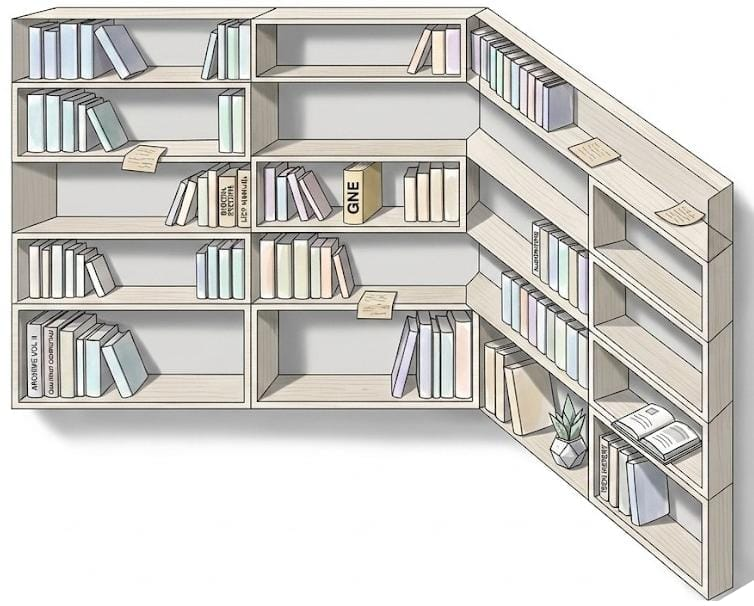
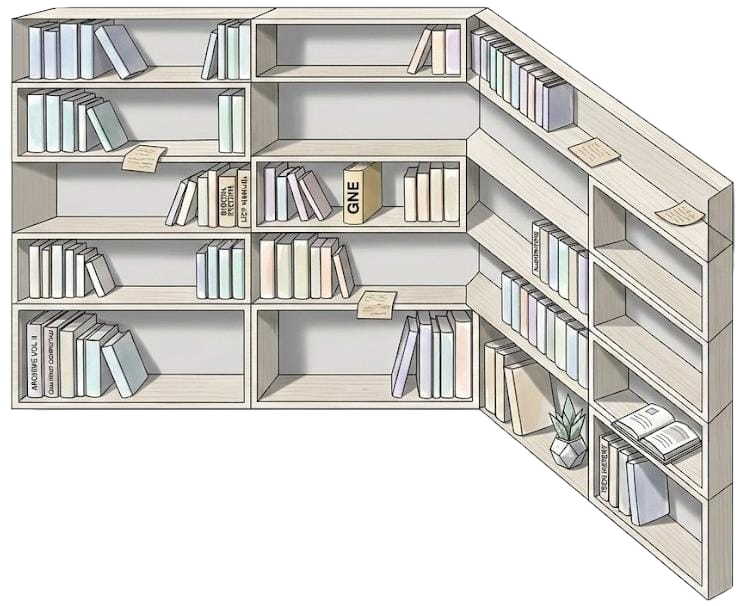
Add realistic hanging bulb animation and improve landing page design

Changed region(s): [[0.0305, 0.6535, 0.7016, 0.7426], [0.9456, 0.297, 1.0, 1.0]]

diff --git a/static/static.css b/static/static.css
@@ -98,9 +98,12 @@ body{
 }
 
 .hero-image img{
-    width:550px;
-    max-width:650px;
+    width: 550px;
+    max-width: 650px;
+
+    filter: drop-shadow(0 35px 40px rgba(0,0,0,.15));
 }
+
 .cat{
     position: absolute;
     top: 123px;
@@ -135,4 +138,127 @@ body{
 }
 body{
     min-height:300vh;
+}
+.hero::before{
+    content: "";
+
+    position: absolute;
+
+    width: 900px;
+    height: 900px;
+
+    right: -180px;
+    top: -220px;
+
+    border-radius: 50%;
+
+    background:
+        radial-gradient(
+            circle,
+            rgba(255,245,215,0.95) 0%,
+            rgba(255,241,190,0.65) 18%,
+            rgba(255,248,225,0.30) 45%,
+            rgba(255,255,255,0) 75%
+        );
+
+    filter: blur(130px);
+
+    pointer-events: none;
+
+    z-index: -1;
+}
+.hero::after{
+    content:"";
+
+    position:absolute;
+
+    width:1200px;
+    height:1200px;
+
+    right:-350px;
+    top:-350px;
+
+    border-radius:50%;
+
+    background:
+        radial-gradient(
+            circle,
+            rgba(255,252,245,.55) 0%,
+            rgba(255,250,235,.18) 55%,
+            transparent 80%
+        );
+
+    filter: blur(220px);
+
+    pointer-events:none;
+
+    z-index:-2;
+}
+.bulb{
+    position:absolute;
+
+    top:-10px;
+    left:1000px;
+
+    width:140px;
+
+    z-index:100;
+
+    transform-origin:50% 0%;
+}
+
+
+
+.bulb::after{
+    content:"";
+
+    position:absolute;
+
+    width:300px;
+    height:300px;
+
+    left:50%;
+    top:55%;
+
+    transform:translate(-50%,-50%);
+
+    border-radius:50%;
+
+    background:
+radial-gradient(
+    circle at center,
+    rgba(255, 248, 220, 0.95) 0%,
+    rgba(255, 232, 170, 0.75) 18%,
+    rgba(255, 215, 120, 0.45) 38%,
+    rgba(255, 180, 80, 0.20) 60%,
+    rgba(255, 150, 40, 0.08) 78%,
+    rgba(255, 120, 20, 0.00) 100%
+);
+
+    filter:blur(90px);
+    animation: bulbGlow 4s ease-in-out infinite;
+
+    z-index:-1;
+
+    pointer-events:none;
+}
+.bulb.on::after{
+    opacity:1;
+}
+.bulb img{
+    width:80%;
+    display:block;
+}
+@keyframes bulbGlow {
+
+    0%,100%{
+        opacity: .82;
+        transform: translate(-50%, -50%) scale(1);
+    }
+
+    50%{
+        opacity: 1;
+        transform: translate(-50%, -50%) scale(1.08);
+    }
+
 }

diff --git a/static/script.js b/static/script.js
@@ -1,3 +1,8 @@
+if ("scrollRestoration" in history) {
+    history.scrollRestoration = "manual";
+}
+
+window.scrollTo(0, 0);
 const lenis = new Lenis({
     duration: 1.2,
     smoothWheel: true,
@@ -32,3 +37,46 @@ setTimeout(() => {
     });
 
 }, 1500);
+const bulb = document.querySelector(".bulb");
+
+let targetRotation = 0;
+let currentRotation = 0;
+let velocity = 0;
+
+document.addEventListener("mousemove", (e) => {
+
+    const mouseX = e.clientX / window.innerWidth;
+
+    targetRotation = (mouseX - 0.5) * 8;
+
+});
+
+function animateBulb(){
+
+
+    const force = (targetRotation - currentRotation) * 0.08;
+
+    velocity += force;
+
+    velocity *= 0.93;
+
+    currentRotation += velocity;
+    currentRotation = Math.max(-8, Math.min(8, currentRotation));
+
+    const xOffset = Math.sin(currentRotation * Math.PI / 180) * 18;
+
+bulb.style.transform = `
+translateX(${xOffset}px)
+rotate(${currentRotation}deg)
+`;
+    
+    requestAnimationFrame(animateBulb);
+
+}
+
+animateBulb();
+document.querySelector(".bulb").classList.add("on");
+setTimeout(() => {
+    document.querySelector(".bulb").classList.add("on");
+}, 1500);
+

diff --git a/templates/index.html b/templates/index.html
@@ -28,6 +28,9 @@
 
 
     <section class="hero">
+        <div class="bulb">
+    <img src="{{ url_for('static', filename='images/bulb.svg') }}" alt="Bulb">
+</div>
 <div class="hero-text">
     <h1 class="hero-title">Let's Start</h1>
 </div>
@@ -47,6 +50,7 @@
    <script src="https://unpkg.com/lenis@1.3.11/dist/lenis.min.js"></script>
     <script src="https://cdn.jsdelivr.net/npm/gsap@3/dist/gsap.min.js"></script>
     <script src="{{ url_for('static', filename='script.js') }}"></script>
+    
 
 </body>
 </html>